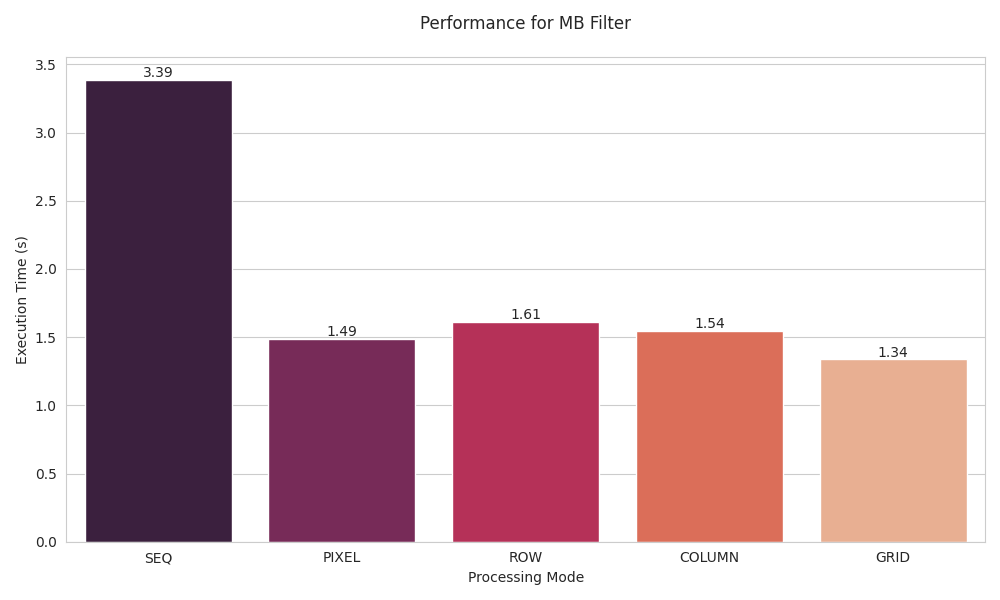
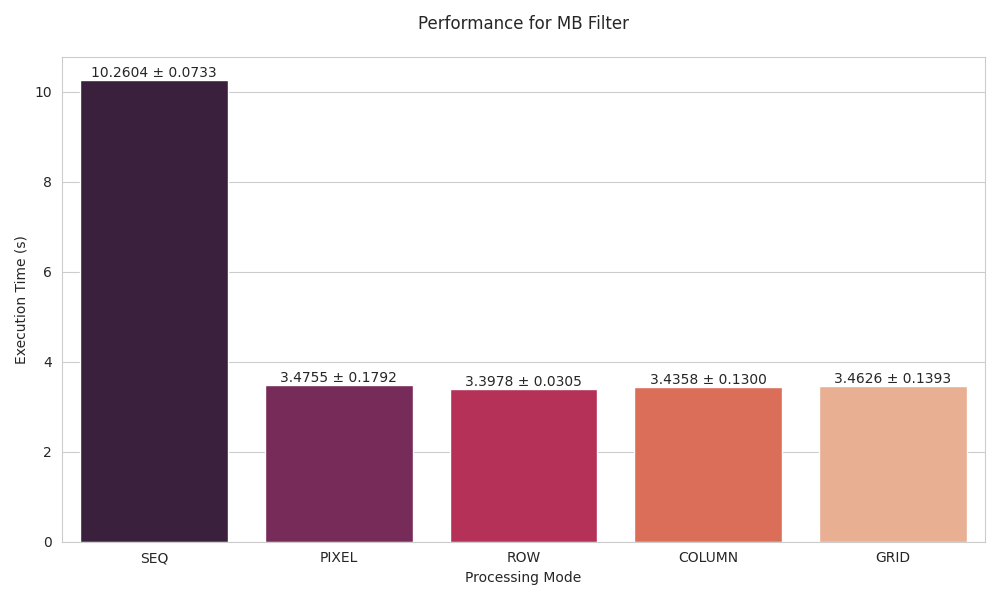
feat: analysis

diff --git a/benchmark/time-bench.py b/benchmark/time-bench.py
@@ -6,29 +6,35 @@ import matplotlib.pyplot as plt
 import seaborn as sns
 from tqdm import tqdm
 import os
+import numpy as np
 
-def run_benchmark(args):
-    modes = ['seq', 'pixel', 'row', 'column', 'grid']
-    filters = ['id', 'bl', 'mb', 'ed', 'sr']
+ARGS = {
+    'input': 'examples/image.png',
+    'output_dir': 'benchmark/plots',
+    'threads': 8,
+    'runs': 5,
+}
+
+MODES = ['seq', 'pixel', 'row', 'column', 'grid']
+FILTERS = ['id', 'bl', 'mb', 'ed', 'sr']
+
+def run_benchmark():
     results = []
     
-    total_combinations = len(modes) * len(filters) * args['runs']
+    total_combinations = len(MODES) * len(FILTERS) * ARGS['runs']
     progress = tqdm(total=total_combinations, desc="Benchmarking")
 
-    os.makedirs('/tmp/pct/', exist_ok=True)
-
-    for mode in modes:
-        for fltr in filters:
+    for mode in MODES:
+        for fltr in FILTERS:
             times = []
-            for _ in range(args['runs']):
-                output_file = f"/tmp/pct/pct_out_{mode}_{fltr}_{time.time()}.jpg"
+            for _ in range(ARGS['runs']):
                 cmd = [
                     './build/src/pct',
-                    '-i', args['input'],
-                    '-o', output_file,
+                    '-i', ARGS['input'],
+                    '-o', "/dev/null",
                     '-f', fltr,
                     '-m', mode,
-                    '-t', str(args['threads']) if mode != 'seq' else '1',
+                    '-t', str(ARGS['threads']) if mode != 'seq' else '1',
                     '--log'
                 ]
 
@@ -45,11 +51,14 @@ def run_benchmark(args):
                     progress.update(1)
 
             if times:
-                avg_time = sum(times) / len(times)
+                mean_time = np.mean(times)
+                std_error = np.std(times, ddof=1)
                 results.append({
                     'Mode': mode.upper(),
                     'Filter': fltr.upper(),
-                    'Time (s)': avg_time
+                    'Time (s)': f"{mean_time:.4f} ± {std_error:.4f}",
+                    '_mean': mean_time,
+                    '_error': std_error
                 })
 
     progress.close()
@@ -59,15 +68,15 @@ def plot_results(df, output_dir):
     sns.set_style("whitegrid")
     os.makedirs(output_dir, exist_ok=True)
 
-    filters = df['Filter'].unique()
-    for fltr in filters:
+    FILTERS = df['Filter'].unique()
+    for fltr in FILTERS:
         plt.figure(figsize=(10, 6))
         ax = sns.barplot(
             data=df[df['Filter'] == fltr],
             x='Mode',
-            y='Time (s)',
+            y='_mean',
             palette="rocket",
-            errorbar=None,
+            errorbar=('ci', 68),
             hue='Mode',
             legend=False
         )
@@ -76,9 +85,10 @@ def plot_results(df, output_dir):
         plt.xlabel("Processing Mode")
         plt.ylabel("Execution Time (s)")
         
-        for p in ax.patches:
+        for i, p in enumerate(ax.patches):
+            row = df[(df['Filter'] == fltr)].iloc[i]
             ax.annotate(
-                f"{p.get_height():.2f}",
+                f"{row['Time (s)']}",
                 (p.get_x() + p.get_width() / 2., p.get_height()),
                 ha='center', va='center',
                 xytext=(0, 5),
@@ -91,25 +101,22 @@ def plot_results(df, output_dir):
         plt.close()
         print(f"Saved {fltr} plot to {output_path}")
 
-if __name__ == "__main__":
-    args = {
-        'input': 'examples/image.png',
-        'output_dir': 'benchmark/plots',
-        'threads': 4,
-        'runs': 1,
-    }
-    
+if __name__ == "__main__":    
     print(f"Starting benchmark with configuration:")
-    print(f"  Input image: {args['input']}")
-    print(f"  Threads: {args['threads']}")
-    print(f"  Runs per config: {args['runs']}")
-    print(f"  Output directory: {args['output_dir']}\n")
+    print(f"  Input image: {ARGS['input']}")
+    print(f"  Threads: {ARGS['threads']}")
+    print(f"  Runs per config: {ARGS['runs']}")
+    print(f"  Output directory: {ARGS['output_dir']}\n")
     
-    results_df = run_benchmark(args)
+    results_df = run_benchmark()
     
     if not results_df.empty:
-        plot_results(results_df, args['output_dir'])
+        plot_results(results_df, ARGS['output_dir'])
         print("\nFinal Results:")
-        print(results_df.to_markdown(index=False))
+        print(results_df[['Mode', 'Filter', 'Time (s)']].to_markdown(index=False))
+
+        with open('benchmark/result.txt', 'w')  as f:
+            f.write('Final Results:\n')
+            f.write(f'{results_df[['Mode', 'Filter', 'Time (s)']].to_markdown(index=False)}\n')
     else:
         print("\nNo valid results collected.")

diff --git a/src/pct/parallel-conv.c b/src/pct/parallel-conv.c
@@ -168,11 +168,9 @@ void grid_convolution(struct image_info* info, struct filter filter, int num_thr
     int w = info->width;
     int h = info->height;
 
-    // Вычисляем оптимальное разделение на прямоугольники
     int grid_width = 1;
     int grid_height = num_threads;
 
-    // Ищем наиболее квадратное разбиение
     for (int i = 1; i <= num_threads; i++) {
         if (num_threads % i == 0) {
             int other = num_threads / i;

diff --git a/benchmark/analysis.md b/benchmark/analysis.md
@@ -1,0 +1,31 @@
+### Краткий анализ результатов тестов производительности
+
+**1. Общая эффективность параллелизации:**
+- Все параллельные методы (PIXEL, ROW, COLUMN, GRID) демонстрируют значительное ускорение (в **3-4 раза**) по сравнению с последовательной обработкой (SEQ) для всех фильтров.
+- Наибольший выигрыш наблюдается для фильтра Motion Blur (MB):  
+  SEQ: 10.26s → PIXEL/ROW/GRID: ~3.4-3.5s (ускорение в **3 раза**).
+
+**2. Сравнение параллельных методов:**
+- **ROW и GRID** показывают наилучшие результаты для большинства фильтров (особенно для ID и SR), но разница с другими методами незначительна (±2-5%).
+- **PIXEL** демонстрирует немного более высокую погрешность (±0.03-0.18s), что может указывать на нестабильность из-за конкуренции потоков за общие ресурсы.
+- **COLUMN** работает сопоставимо с ROW, но с чуть большим разбросом значений для MB и ED.
+
+**3. Зависимость от типа фильтра:**
+- **Простые фильтры (ID, SR):**  
+  Минимальное время выполнения (~0.37-0.38s для параллельных методов). Погрешность не превышает ±0.03s.
+- **Ресурсоёмкие фильтры (MB, BL, ED):**  
+  - MB (Motion Blur) — самое долгое выполнение (~3.4-3.5s), что объясняется большим размером ядра (9x9).  
+  - BL (Blur) и ED (Edge Detection) — средние значения (~1.0-1.1s).  
+  Погрешность для этих фильтров выше (±0.02-0.18s), особенно для PIXEL.
+
+**4. Стабильность результатов:**
+- Наименьший разброс значений (±0.01-0.03s) у SEQ, что ожидаемо для последовательного выполнения.  
+- Для параллельных методов:  
+  - Наименее стабилен **PIXEL** (особенно для MB: ±0.18s).  
+  - Наиболее стабильны **ROW** и **GRID** (погрешность в 2-3 раза ниже, чем у PIXEL).
+
+**Выводы:**
+1. Параллельная обработка эффективна для всех типов фильтров, обеспечивая ускорение в **3-4 раза**.
+2. Методы **ROW** и **GRID** предпочтительнее из-за стабильности и минимального времени выполнения.
+3. Фильтр **Motion Blur (MB)** — самый ресурсоёмкий, но его обработка также хорошо масштабируется при параллелизации.
+4. Погрешность результатов растет с увеличением сложности фильтра, но остается в разумных пределах (±5-7% от среднего значения). 
